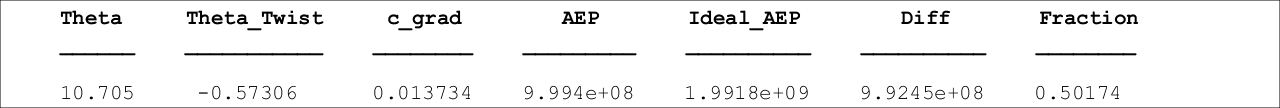
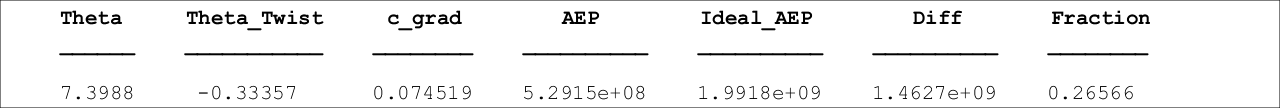
Attempt to implement nodal bending values

diff --git a/WTSingleVelocity.m b/WTSingleVelocity.m
@@ -4,7 +4,7 @@ function [Mtot_t, Mtot_n,S2,Power,def_max_y,def_max_z] = WTSingleVelocity(V0, Th
 %root.
 
 N=19; %set radius node count
-radius_delta=(TipRadius-RootRadius)/(N); %Increment in radius
+radius_delta=(TipRadius-RootRadius)/((2*N)); %Increment in radius
 S2=zeros(N,13); %Creat empty matrix to hold values
 
 c_mean_local=globaldata.c_mean;
@@ -12,12 +12,16 @@ logid_local=globaldata.logid;
 w_local=globaldata.w;
 etol_local=globaldata.etol;
 
-for j=1:N
+pts=zeros(1,N+1); % Pys
+pns=zeros(1,N+1);% Pzs
 
-    local_radius=RootRadius+((j-1)*radius_delta)+(radius_delta/2); % Calculate local radius from centre increment TODO shorten this
+
+for j=1:(2*N)
+
+    local_radius=RootRadius+((j-1)*radius_delta); % Calculate local radius from centre increment TODO shorten this
     local_chord=c_mean_local+((local_radius-((TipRadius-RootRadius)/2))*c_grad); % Calculate tapered chord
     local_theta=Theta0+(local_radius*ThetaTwist);
-    [a_s1, adash_s1, phi_s1, Cn_s1, Ct_s1, Vrel, tol_s1, i_s1]=WTInducedCalcs(0,0,V0,w_local,local_radius,local_theta,local_chord,B,logid_local,etol_local,TipRadius,globaldata);
+    [a_s1, adash_s1, phi_s1, Cn_s1, Ct_s1, Vrel, tol_s1, i_s1]=WTInducedCalcs(0.2,0.2,V0,w_local,local_radius,local_theta,local_chord,B,logid_local,etol_local,TipRadius,globaldata);
     if a_s1<0 || adash_s1<0
         %fprintf(logid_local,'S2 Negatives Detected: a=%f, adash=%f Calling function: WTSingleVelocity(%f, %f, %f, %f, %f,%f,%f)\r\n',a_s1, adash_s1,V0, Theta0, ThetaTwist, c_grad, TipRadius,RootRadius, B);
     end
@@ -28,8 +32,13 @@ for j=1:N
     Mn=(0.5*1.225*local_chord*Cn_s1*Vrel^2)*radius_delta*local_radius;
     pt=Mt/(radius_delta*local_radius);
     pn=Mn/(radius_delta*local_radius);
-    S2(j,:)=[local_radius, a_s1, adash_s1, phi_s1, Cn_s1, Ct_s1, tol_s1, i_s1,Vrel,Mt,Mn,pt,pn];
-
+    if mod(j,2)==1
+        % put ps into their array
+        pts(round(j/2,0))=pt;
+        pns(round(j/2,0))=pn;
+    else
+    S2(j/2,:)=[local_radius, a_s1, adash_s1, phi_s1, Cn_s1, Ct_s1, tol_s1, i_s1,Vrel,Mt,Mn,pt,pn];
+    end
 end
 
 
@@ -37,29 +46,18 @@ Ty=zeros(1,N+1);
 Tz=zeros(1,N+1);
 My=zeros(1,N+1);
 Mz=zeros(1,N+1);
-for p=N:-1:3
+for p=N:-1:1
     % Interp Forces at each node
-    force_y_p=(1/2*(S2(p,12)+S2(p-1,12)));
-    force_y_p1=(1/2*(S2(p-1,12)+S2(p-2,12)));
-    force_z_p=(1/2*(S2(p,13)+S2(p-1,13)));
-    force_z_p1=(1/2*(S2(p-1,13)+S2(p-2,13)));
-    Ty(p)=Ty(p+1)+(S2(p,12)*radius_delta);
-    Tz(p)=Tz(p+1)+(S2(p,13)*radius_delta);
+    force_y_p=pts(N);
+    force_y_p1=pts(N-1);
+    force_z_p=pns(N);
+    force_z_p1=pns(N-1);
+    Ty(p)=Ty(p+1)+(1/2*(force_y_p+force_y_p1)*radius_delta);
+    Tz(p)=Tz(p+1)+(1/2*(force_z_p+force_z_p1)*radius_delta);
     My(p)=My(1,p+1)-(radius_delta*Tz(p+1))-((force_z_p1/6)+(force_z_p/3))*radius_delta^2;
     Mz(p)=Mz(1,p+1)+(radius_delta*Ty(p+1))+((force_y_p1/6)+(force_y_p/3))*radius_delta^2;
 end
 
-% For nodes 1 and two use central approximations.
-for p=2:-1:1
-    force_y_p=S2(p,12);
-    force_y_p1=S2(max(p-1,1),12);
-    force_z_p=S2(p,13);
-    force_z_p1=S2(max(p-1,1),13);
-    Ty(p)=Ty(p+1)+(S2(p,12)*radius_delta);
-    Tz(p)=Tz(p+1)+(S2(p,13)*radius_delta);
-    My(p)=My(1,p+1)-(radius_delta*Tz(p+1))-((force_z_p1/6)+(force_z_p/3))*radius_delta^2;
-    Mz(p)=Mz(1,p+1)+(radius_delta*Ty(p+1))+((force_y_p1/6)+(force_y_p/3))*radius_delta^2;
-end
 
 % M1s and M2s
 node_thetas=linspace(Theta0,Theta0+((TipRadius-RootRadius)*ThetaTwist),N+1);

diff --git a/WTVelocityRange.m b/WTVelocityRange.m
@@ -14,7 +14,7 @@ momentHold=zeros(1,N+1);
 def_yHold=zeros(1,N+1);
 def_zHold=zeros(1,N+1);
 
-parfor pn=1:N+1
+for pn=1:N+1
         lowerbandv0=MinV0+((pn-1)*V0delta);
         [~,momentHold(pn),~,powerHold(pn),def_yHold(pn),def_zHold(pn)]=WTSingleVelocity(lowerbandv0, bladeConfig(1), bladeConfig(2), bladeConfig(3), TipRadius,RootRadius, B,globaldata);
 end
@@ -41,10 +41,10 @@ for vn=1:N
     
     %Find node power as mean of boundary values
     
-    if(max(momentHold)>globaldata.M_rootmax && globaldata.flags.overrideLimits==false)
+    if(max(momentHold(vn),momentHold(vn+1))>globaldata.M_rootmax && globaldata.flags.overrideLimits==false)
         local_power=0;
         disp(['Moment Limit Exceeded: ' num2str(max(momentHold))]);
-    elseif(abs(def_zHold(end))>3 && globaldata.flags.overrideLimits==false)
+    elseif(max(abs(def_zHold(vn)),abs(def_zHold(vn+1)))>3 && globaldata.flags.overrideLimits==false)
         local_power=0;
         disp(['Deflections Exceeded - z: ' num2str(abs(def_zHold(end)))]);
     else

diff --git a/main.m b/main.m
@@ -33,10 +33,10 @@ progressbar('Optimisation');
 opts = optimset('fminsearch');
 opts.Display = 'iter'; %What to display in command window
 opts.TolX = 0.0001; %Tolerance on the variation in the parameters
-opts.TolFun = 1; %Tolerance on the error
+opts.TolFun = 100; %Tolerance on the error
 opts.OutputFcn = @(x,optimValues,state)optMonitor(x,optimValues,state,globaldata); %Tolerance on the error
 opts.MaxIter = globaldata.maxiters-1; %Max number of iterations
-[x, diff, exitflag] = fminsearchbnd(@(x)aepCost(x,globaldata), [deg2rad(10.577) deg2rad(-0.56) 0.013], [deg2rad(2) deg2rad(-2) -0.1], [deg2rad(20) deg2rad(0.5) 0.099], opts);
+[x, diff, exitflag] = fminsearchbnd(@(x)aepCost(x,globaldata), [deg2rad(12) deg2rad(-0.5) 0], [deg2rad(2) deg2rad(-2) -0.1], [deg2rad(20) deg2rad(0.5) 0.099], opts);
 xdeg=[rad2deg(x(1)),rad2deg(x(2)),x(3)];
 if exitflag==1
     disp('Optimiser SOLVED.');
